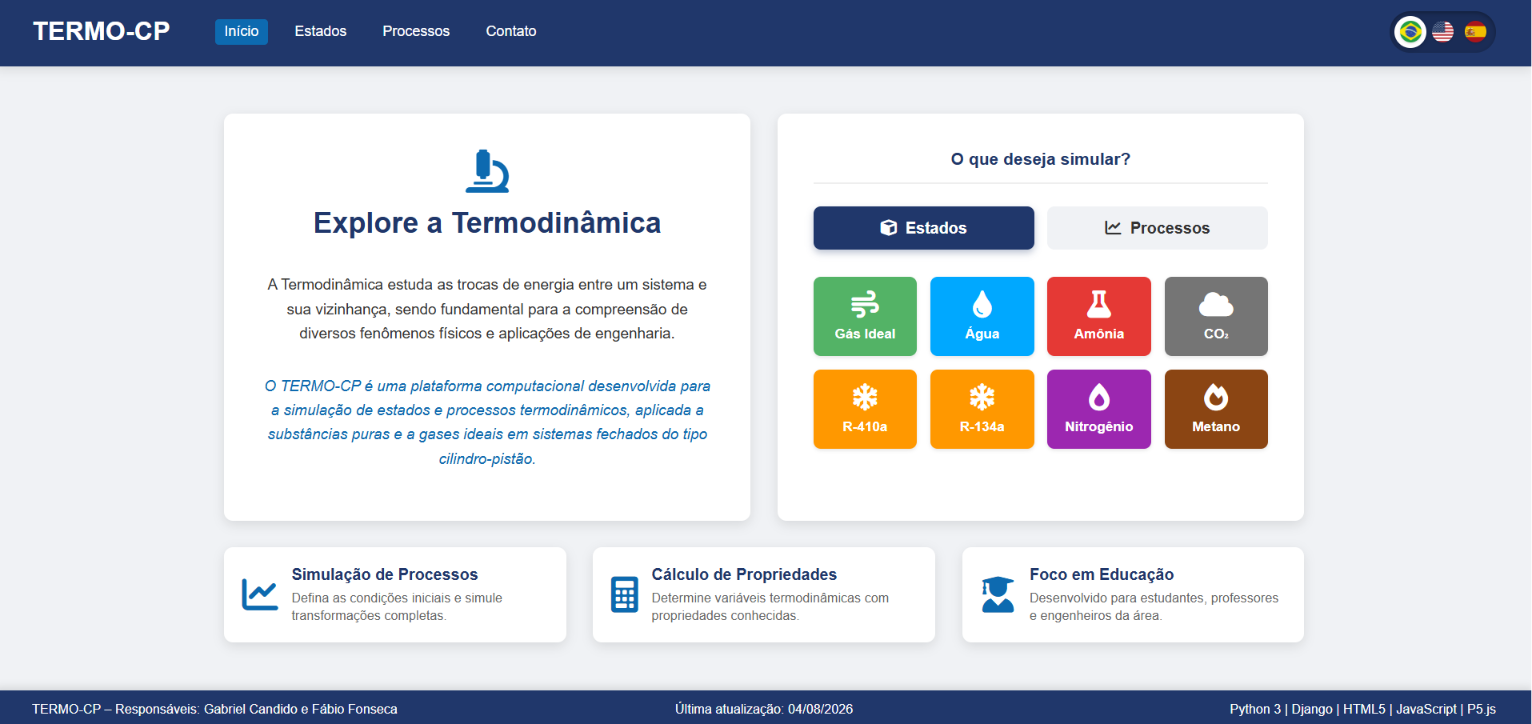
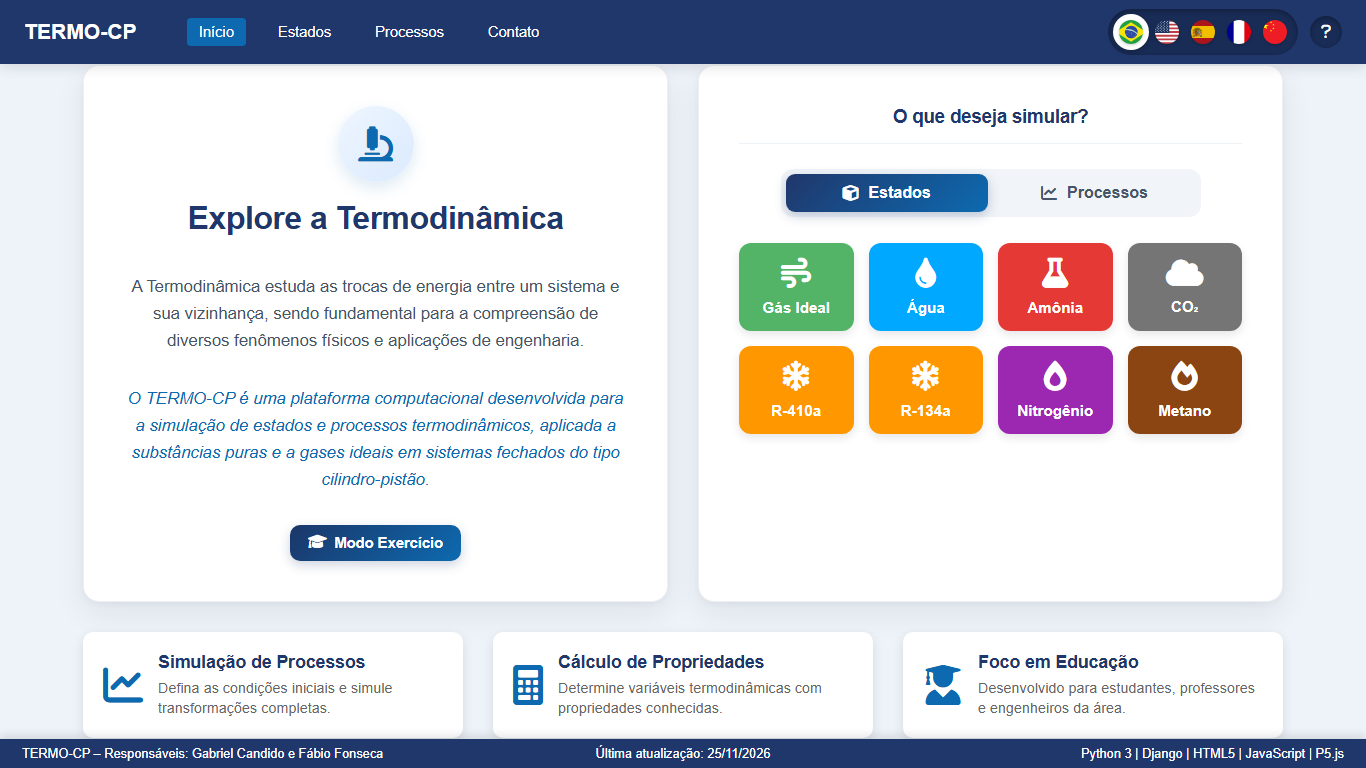
Remover artigo_prints do GitHub e atualizar os 5 READMEs com prints por idioma

diff --git a/myapp/static/myapp/js/base_ui.js b/myapp/static/myapp/js/base_ui.js
@@ -181,6 +181,8 @@ try {
         // Executa assim que o HTML da página (incluindo o que vem do block content) estiver carregado
         document.addEventListener("DOMContentLoaded", function() {
             // Busca se o usuário já escolheu um idioma antes. Se não, o padrão é 'pt-br'
+            const _urlLang = new URLSearchParams(window.location.search).get('lang');
+            if (_urlLang && ['pt-br', 'en', 'es', 'fr', 'zh'].indexOf(_urlLang) !== -1) { localStorage.setItem('preferredLang', _urlLang); }
             let savedLang = localStorage.getItem('preferredLang') || 'pt-br';
 
             // Define o índice da bolinha branca baseado no idioma salvo

diff --git a/README.fr.md b/README.fr.md
@@ -67,17 +67,18 @@ Orienté vers l'enseignement et la recherche, le projet aide les étudiants, ens
 
 - **Calcul complet d'états thermodynamiques** — détermine `P`, `T`, `v`, `u`, `h`, `s`, la phase et le titre `x` (en `%` et en fraction décimale) à partir de paires de propriétés connues, avec masse configurable (`m` en kg).
 - **Simulation de processus et enchaînement de cycles** — calcule des transformations complètes incluant le travail (`W`), la chaleur (`Q`), l'entropie générée (`Sgén`), la vérification de la 2e Loi et le **Bilan Global du Cycle** (`W_net`, `Q_H`, `Q_L`, rendement thermique `η` et `COP`).
-- **Diagrammes thermodynamiques interactifs** — tracés `P-v`, `T-s`, `h-s`, `T-v` et `P-h` avec dôme de saturation et point critique.
-- **Mémoire de calcul didactique** — démonstrations théoriques étape par étape et équations appliquées à chaque processus.
-- **Visualisation 3D interactive** — animation WebGL du cylindre-piston avec P5.js et curseur de volume.
-- **Historique, comparaison et rapports** — comparaison côte à côte des calculs de la session et exportation de rapports en image via `html2canvas`.
-- **Aide contextuelle et Visite Guidée** — centre d'aide complet, conseils par page et visite interactive des boutons et résultats.
+- **Diagrammes interactifs avec Zoom & Pan** — tracés `P-v`, `T-s`, `h-s`, `T-v` et `P-h` (axes linéaires et logarithmiques) avec dôme de saturation, point critique et export PNG/PDF/CSV.
+- **Mémoire didactique en PDF vectoriel** — démonstrations étape par étape, tableau État 1 × État 2, vérification de la 1re Loi, irréversibilité de Gouy-Stodola et export PDF A4.
+- **Mode Exercice et Mini-Examen** — exercices aléatoires par substance et niveau, Mini-Examen de 3 questions, verrou anti-triche, convertisseur rapide, code d'authenticité et justificatif PDF.
+- **Partage de simulations** — lien court (`/s/<code>/`) et QR Code avec aperçu 3D du cylindre (avec échelle) et réouverture directe dans TERMO-CP.
+- **Visualisation 3D interactive** — animation WebGL du cylindre-piston avec P5.js et échelle logarithmique de volume.
+- **Historique, rapports, Visite Guidée et statistiques** — comparaison côte à côte, export PDF/CSV/PNG, visite interactive et statistiques anonymes dans Django Admin.
 
 <br>
 
 <div align="center">
   <a href="https://gcandid0.pythonanywhere.com/">
-    <img src="./assets/screenshot-home.png" alt="Écran d'accueil de TERMO-CP" width="900" style="border-radius: 12px;">
+    <img src="./assets/screenshot-home-fr.png" alt="Écran d'accueil de TERMO-CP" width="900" style="border-radius: 12px;">
   </a>
 </div>
 
@@ -120,9 +121,13 @@ Définissez la masse, l'état initial, le type de processus et la condition fina
 Chaque résultat s'accompagne d'une animation 3D du cylindre-piston sous P5.js (distinguant visuellement liquide, vapeur et mélange diphasique) ainsi que de diagrammes thermodynamiques interactifs avec dôme de saturation et point critique.
 
 ### Mémoire Didactique, Historique et Rapports
-- **Mémoire de Calcul** : détaille étape par étape les démonstrations des 1re et 2e Lois appliquées au processus.
-- **Historique et Comparaison** : enregistre les calculs de la session dans le navigateur pour les comparer côte à côte.
-- **Exportation de Rapports** : génère un rapport consolidé prêt à être exporté en image (`html2canvas`).
+- **Mémoire de Calcul (PDF)** : démonstrations étape par étape des 1re et 2e Lois, vérification numérique (`Q − W = ΔU`), irréversibilité de Gouy-Stodola et export PDF vectoriel A4.
+- **Diagrammes avec Zoom & Pan** : zoom et déplacement natifs Chart.js (axes linéaires et logarithmiques), avec export PNG, PDF et CSV.
+- **Historique et Comparaison** : enregistre les calculs de la session avec filtre de recherche et comparaison côte à côte.
+
+### Mode Exercice et Partage de Simulations
+- **Mode Exercice (`/exercicios/`)** : problèmes aléatoires calibrés par substance (ou Mini-Examen de 3 questions), boutons d'analyse physique, verrou anti-triche, convertisseur rapide, convention de signes, code d'authenticité et justificatif PDF.
+- **Liens Partageables (`/s/<code>/`)** : lien court, QR Code et aperçu 3D avec échelle permettant de rouvrir la simulation prête dans TERMO-CP.
 
 <p align="right"><a href="#haut">↑ retour en haut</a></p>
 
@@ -190,7 +195,7 @@ Aucune installation nécessaire — utilisez directement la version publiée :
 Le dépôt inclut une suite de tests automatisés (Django `TestCase`) ainsi qu'une analyse statique via **Ruff**, exécutées automatiquement sur GitHub Actions :
 
 ```bash
-# Lancer les tests automatisés (28 tests : calculs, vues, formulaires et intégrité UTF-8)
+# Lancer les tests automatisés (33 tests : calculs, vues, formulaires et intégrité UTF-8)
 python manage.py test myapp
 
 # Vérification du projet Django
@@ -227,6 +232,10 @@ ruff check myapp termocp
 - [x] Centre d'Aide, aide contextuelle et Visite Guidée interactive
 - [x] Prise en charge complète de 5 langues (PT / EN / ES / FR / ZH)
 - [x] Suite de tests automatisés et pipeline CI avec GitHub Actions
+- [x] Zoom & Pan sur les diagrammes et export PDF vectoriel du Mémoire Didactique
+- [x] Mode Exercice (libre et Mini-Examen de 3 questions) avec verrou anti-triche et justificatif PDF
+- [x] Liens partageables de simulation (QR Code, aperçu 3D avec échelle et réouverture directe)
+- [x] Statistiques anonymes d'utilisation et suivi des exercices dans Django Admin
 
 <p align="right"><a href="#haut">↑ retour en haut</a></p>
 

diff --git a/README.es.md b/README.es.md
@@ -67,17 +67,18 @@ Con un enfoque educativo, está dirigida a estudiantes, docentes e ingenieros qu
 
 - **Cálculo completo de estados termodinámicos** — determina `P`, `T`, `v`, `u`, `h`, `s`, fase y calidad `x` (en `%` y fracción decimal) a partir de pares de propiedades conocidas, con masa configurable (`m` en kg).
 - **Simulación de procesos y encadenamiento de ciclos** — calcula transformaciones completas con trabajo (`W`), calor (`Q`), generación de entropía (`Sgen`), verificación de la 2ª Ley y **Balance Global del Ciclo** (`W_neto`, `Q_H`, `Q_L`, eficiencia térmica `η` y `COP`).
-- **Diagramas termodinámicos interactivos** — gráficos `P-v`, `T-s`, `h-s`, `T-v` y `P-h` con domo de saturación y punto crítico.
-- **Memoria de cálculo didáctica** — deducciones teóricas paso a paso y ecuaciones aplicadas a cada proceso.
-- **Visualización 3D interactiva** — animación WebGL del cilindro-pistón en P5.js con control deslizable de volumen.
-- **Historial, comparación e informes** — comparación lado a lado de cálculos de la sesión y exportación de informes en imagen con `html2canvas`.
-- **Ayuda contextual y Tour Guiado** — centro de ayuda completo, consejos por página y recorrido guiado de botones y resultados.
+- **Diagramas interactivos con Zoom y Pan** — gráficos `P-v`, `T-s`, `h-s`, `T-v` y `P-h` (ejes lineales y logarítmicos) con domo de saturación, punto crítico y exportación en PNG/PDF/CSV.
+- **Memoria de cálculo didáctica en PDF** — deducciones paso a paso, tabla Estado 1 × Estado 2, verificación de la 1ª Ley, irreversibilidad de Gouy-Stodola y PDF vectorial A4.
+- **Modo Ejercicio y Mini-Examen** — problemas aleatorios por sustancia y nivel, Mini-Examen de 3 preguntas, bloqueo anti-trampa, conversor rápido, código de autenticidad y comprobante PDF.
+- **Simulaciones compartibles** — enlace corto (`/s/<codigo>/`) y código QR con vista previa del cilindro 3D con escala y reapertura directa en TERMO-CP.
+- **Visualización 3D interactiva** — animación WebGL del cilindro-pistón en P5.js con escala logarítmica de volumen.
+- **Historial, informes, Tour Guiado y estadísticas** — comparación lado a lado, exportación PDF/CSV/PNG, recorrido interactivo y estadísticas anónimas en Django Admin.
 
 <br>
 
 <div align="center">
   <a href="https://gcandid0.pythonanywhere.com/">
-    <img src="./assets/screenshot-home.png" alt="Pantalla principal de TERMO-CP" width="900" style="border-radius: 12px;">
+    <img src="./assets/screenshot-home-es.png" alt="Pantalla principal de TERMO-CP" width="900" style="border-radius: 12px;">
   </a>
 </div>
 
@@ -120,9 +121,13 @@ Defina la masa, el estado inicial, el tipo de proceso y la condición final (o e
 Cada resultado incluye una animación 3D del cilindro-pistón en P5.js (distinguiendo visualmente líquido, vapor y mezcla bifásica) junto con diagramas termodinámicos interactivos con domo de saturación y punto crítico.
 
 ### Memoria Didáctica, Historial e Informes
-- **Memoria de Cálculo**: muestra las deducciones teóricas paso a paso de la 1ª y 2ª Leyes aplicadas al proceso.
-- **Historial y Comparación**: guarda los cálculos de la sesión en el navegador para compararlos lado a lado.
-- **Exportación de Informes**: genera un informe consolidado listo para exportar como imagen (`html2canvas`).
+- **Memoria de Cálculo (PDF)**: deducciones paso a paso de la 1ª y 2ª Ley, verificación numérica (`Q − W = ΔU`), irreversibilidad de Gouy-Stodola y exportación vectorial en PDF A4.
+- **Diagramas con Zoom y Pan**: zoom y arrastre nativos en Chart.js (ejes lineales y logarítmicos), con exportación en PNG, PDF y CSV.
+- **Historial y Comparación**: guarda los cálculos de la sesión con filtro de búsqueda y comparación lado a lado.
+
+### Modo Ejercicio y Enlaces Compartibles
+- **Modo Ejercicio (`/exercicios/`)**: problemas aleatorios calibrados por sustancia (o Mini-Examen de 3 preguntas), chips de análisis físico, bloqueo anti-trampa, conversor rápido, guía de signos, código de autenticidad y comprobante/boletín en PDF.
+- **Enlaces Compartibles (`/s/<codigo>/`)**: enlace corto, código QR y vista previa 3D con escala para reabrir la simulación lista en TERMO-CP.
 
 <p align="right"><a href="#inicio">↑ volver arriba</a></p>
 
@@ -190,7 +195,7 @@ No requiere instalación — acceda directamente a la versión publicada:
 El repositorio cuenta con una suite automatizada de pruebas (Django `TestCase`) y análisis estático con **Ruff**, ejecutados automáticamente mediante GitHub Actions:
 
 ```bash
-# Ejecutar pruebas automatizadas (28 pruebas: cálculos, vistas, formularios e integridad UTF-8)
+# Ejecutar pruebas automatizadas (33 pruebas: cálculos, vistas, formularios e integridad UTF-8)
 python manage.py test myapp
 
 # Verificación del proyecto Django
@@ -227,6 +232,10 @@ ruff check myapp termocp
 - [x] Centro de Ayuda, ayuda contextual y Tour Guiado interactivo
 - [x] Soporte completo en 5 idiomas (PT / EN / ES / FR / ZH)
 - [x] Suite de pruebas automatizadas y pipeline CI con GitHub Actions
+- [x] Zoom y Pan en diagramas y exportación vectorial en PDF de la Memoria Didáctica
+- [x] Modo Ejercicio (individual y Mini-Examen de 3 preguntas) con bloqueo anti-trampa y PDF
+- [x] Enlaces compartibles de simulación (código QR, vista previa 3D con escala y reapertura directa)
+- [x] Estadísticas anónimas de uso y registro de ejercicios en Django Admin
 
 <p align="right"><a href="#inicio">↑ volver arriba</a></p>
 

diff --git a/README.md b/README.md
@@ -67,11 +67,12 @@ O projeto tem foco educacional, voltado a estudantes, professores e engenheiros 
 
 - **Cálculo completo de estados termodinâmicos** — determinação de `P`, `T`, `v`, `u`, `h`, `s`, fase e título `x` (em `%` e fração decimal) a partir de pares de propriedades conhecidas, com massa configurável (`m` em kg).
 - **Simulação de processos e encadeamento de ciclos** — cálculo de transformações completas com trabalho (`W`), calor (`Q`), geração de entropia (`Sger`), verificação da 2ª Lei e **Balanço Global do Ciclo** (`W_líq`, `Q_H`, `Q_L`, rendimento térmico `η` e `COP`).
-- **Diagramas termodinâmicos interativos** — visualização em gráficos `P-v`, `T-s`, `h-s`, `T-v` e `P-h` com domo de saturação e ponto crítico.
-- **Memorial de cálculo didático** — deduções teóricas passo a passo e equações aplicadas a cada processo.
-- **Visualização 3D interativa** — animação do conjunto cilindro-pistão em P5.js (WebGL) com controle de volume.
-- **Histórico, comparação e relatórios** — comparação lado a lado de cálculos salvos na sessão e exportação de relatórios como imagem via `html2canvas`.
-- **Ajuda contextual e Tour Guiado** — central de ajuda completa, dicas por página e tour interativo dos botões e resultados.
+- **Diagramas termodinâmicos interativos com Zoom & Pan** — gráficos `P-v`, `T-s`, `h-s`, `T-v` e `P-h` (eixos lineares e logarítmicos) com domo de saturação, ponto crítico e exportação em PNG/PDF/CSV.
+- **Memorial de cálculo didático em PDF** — deduções passo a passo, tabela comparativa Estado 1 × Estado 2, verificação numérica da 1ª Lei, Irreversibilidade de Gouy-Stodola e exportação vetorial em A4.
+- **Modo Exercício e Mini-Prova** — gerador de problemas aleatórios por substância e nível, Mini-Prova de 3 questões, trava anti-burla, conversor rápido, código de autenticidade e comprovante/boletim em PDF.
+- **Compartilhamento de simulações** — geração de link curto (`/s/<codigo>/`) e QR Code com prévia do cilindro 3D e reabertura direta da simulação pronta no TERMO-CP.
+- **Visualização 3D interativa** — animação do conjunto cilindro-pistão em P5.js (WebGL) com régua logarítmica de volume.
+- **Histórico, comparação, relatórios e Ajuda contextual** — comparação lado a lado, exportação em PDF/CSV/PNG, Tour Guiado e estatísticas anônimas no painel administrativo.
 
 <br>
 
@@ -120,9 +121,13 @@ Defina a massa, o estado inicial, o tipo de processo e a condição final (ou ca
 Cada resultado inclui uma animação 3D do cilindro-pistão em P5.js (com distinção visual entre líquido, vapor e mistura bifásica) e diagramas termodinâmicos interativos com domo de saturação e ponto crítico.
 
 ### Memorial Didático, Histórico e Relatórios
-- **Memorial de Cálculo**: exibe as deduções teóricas passo a passo da 1ª e 2ª Leis aplicadas ao processo.
-- **Histórico e Comparação**: guarda os cálculos da sessão no navegador para comparação lado a lado.
-- **Exportação de Relatório**: gera um relatório consolidado pronto para exportação como imagem (`html2canvas`).
+- **Memorial de Cálculo (PDF)**: exibe deduções passo a passo da 1ª e 2ª Leis, verificação numérica (`Q − W = ΔU`), Irreversibilidade de Gouy-Stodola (`I = T_viz · Sger`) e exportação vetorial em PDF A4.
+- **Diagramas com Zoom & Pan**: ampliação e arraste nativos em Chart.js (eixos lineares e logarítmicos), com exportação em PNG, PDF e CSV.
+- **Histórico e Comparação**: guarda os cálculos da sessão com filtro de busca e comparação lado a lado.
+
+### Modo Exercício e Compartilhamento
+- **Modo Exercício (`/exercicios/`)**: problemas aleatórios calibrados para cada substância (ou Mini-Prova de 3 questões), análise física por chips clicáveis, trava anti-burla, conversor de unidades, guia de sinais, código de autenticidade no servidor e comprovante/boletim em PDF.
+- **Links Compartilháveis (`/s/<codigo>/`)**: gera link curto, QR Code e compartilhamento via WhatsApp/e-mail com prévia dos dados + cilindro 3D com escala e botão para abrir a simulação pronta.
 
 <p align="right"><a href="#topo">↑ voltar ao topo</a></p>
 
@@ -190,7 +195,7 @@ Não é necessário instalar nada — acesse diretamente a versão publicada:
 O repositório conta com suíte automatizada de testes (Django `TestCase`) e verificação estática via **Ruff**, executados automaticamente no GitHub Actions:
 
 ```bash
-# Executar os testes automatizados (28 testes: cálculos, views, formulários e integridade UTF-8)
+# Executar os testes automatizados (33 testes: cálculos, views, formulários e integridade UTF-8)
 python manage.py test myapp
 
 # Verificação de integridade do projeto Django
@@ -227,6 +232,10 @@ ruff check myapp termocp
 - [x] Central de Ajuda, ajuda contextual e Tour Guiado interativo
 - [x] Suporte completo a 5 idiomas (PT / EN / ES / FR / ZH)
 - [x] Suíte de testes automatizados e pipeline CI com GitHub Actions
+- [x] Zoom & Pan nos diagramas e exportação vetorial em PDF do Memorial Didático
+- [x] Modo Exercício (avulso e Mini-Prova de 3 questões) com trava anti-burla e comprovante PDF
+- [x] Links compartilháveis de simulação (QR Code, prévia 3D com escala e reabertura direta)
+- [x] Estatísticas anônimas de uso e auditoria de exercícios no Django Admin
 
 <p align="right"><a href="#topo">↑ voltar ao topo</a></p>
 

diff --git a/README.en.md b/README.en.md
@@ -67,17 +67,18 @@ Designed with an educational focus, it helps students, professors, and engineers
 
 - **Complete thermodynamic state calculation** — determines `P`, `T`, `v`, `u`, `h`, `s`, phase, and quality `x` (both `%` and decimal fraction) from any valid pair of known properties, with configurable system mass (`m` in kg).
 - **Process simulation & cycle chaining** — computes full transformations including work (`W`), heat (`Q`), entropy generation (`Sgen`), 2nd Law feasibility check, and **Global Cycle Balance** (`W_net`, `Q_H`, `Q_L`, thermal efficiency `η`, and `COP`).
-- **Interactive thermodynamic diagrams** — `P-v`, `T-s`, `h-s`, `T-v`, and `P-h` plots with saturation dome and critical point.
-- **Didactic calculation memorial** — step-by-step theoretical derivations and equations for every process.
-- **Interactive 3D visualization** — WebGL piston-cylinder animation in P5.js with volume control slider.
-- **History, comparison & reports** — side-by-side comparison of session calculations and report image export via `html2canvas`.
-- **Contextual help & Guided Tour** — complete Help Center, per-page tips, and interactive guided tour of buttons and results.
+- **Interactive diagrams with Zoom & Pan** — `P-v`, `T-s`, `h-s`, `T-v`, and `P-h` plots (linear and logarithmic axes) with saturation dome, critical point, and PNG/PDF/CSV export.
+- **Didactic calculation memorial (vector PDF)** — step-by-step derivations, State 1 × State 2 table, 1st Law check, Gouy-Stodola irreversibility, and A4 PDF export.
+- **Exercise Mode & Mini-Exam** — randomized problems by substance and level, 3-question Mini-Exam, anti-cheating lock, quick unit converter, authenticity code, and PDF receipt.
+- **Shareable simulations** — short link (`/s/<code>/`) and QR Code with 3D cylinder preview (including volume scale) and one-click live reopening in TERMO-CP.
+- **Interactive 3D visualization** — WebGL piston-cylinder animation in P5.js with logarithmic volume scale.
+- **History, reports, Guided Tour & Admin analytics** — side-by-side comparison, PDF/CSV/PNG exports, interactive tour, and anonymous usage statistics.
 
 <br>
 
 <div align="center">
   <a href="https://gcandid0.pythonanywhere.com/">
-    <img src="./assets/screenshot-home.png" alt="TERMO-CP Home Screen" width="900" style="border-radius: 12px;">
+    <img src="./assets/screenshot-home-en.png" alt="TERMO-CP Home Screen" width="900" style="border-radius: 12px;">
   </a>
 </div>
 
@@ -120,9 +121,13 @@ Define the mass, initial state, process type, and final condition (or heat trans
 Every result includes a 3D P5.js piston-cylinder animation (visually distinguishing liquid, vapor, and two-phase mixtures) alongside interactive thermodynamic diagrams featuring the saturation dome and critical point.
 
 ### Didactic Memorial, History & Reports
-- **Calculation Memorial**: presents step-by-step theoretical derivations of the 1st and 2nd Laws applied to each process.
-- **History & Comparison**: stores session calculations in the browser for side-by-side comparison.
-- **Report Export**: generates a consolidated report ready to export as an image (`html2canvas`).
+- **Calculation Memorial (PDF)**: step-by-step 1st & 2nd Law derivations, numerical check (`Q − W = ΔU`), Gouy-Stodola irreversibility (`I = T_surr · Sgen`), and vector A4 PDF export.
+- **Zoom & Pan Diagrams**: native Chart.js zoom and drag on both linear and logarithmic axes, with PNG, PDF, and CSV export.
+- **History & Comparison**: stores session calculations with search filter and side-by-side comparison.
+
+### Exercise Mode & Shareable Simulations
+- **Exercise Mode (`/exercicios/`)**: randomized problems calibrated per substance (or 3-question Mini-Exam), clickable physical prediction chips, anti-cheating lock, unit converter, sign convention guide, server authenticity code, and PDF receipt.
+- **Shareable Links (`/s/<code>/`)**: short link, QR Code, and WhatsApp/email sharing with 3D cylinder preview (with scale) and one-click live simulation restore.
 
 <p align="right"><a href="#top">↑ back to top</a></p>
 
@@ -190,7 +195,7 @@ No installation required — use the live deployment directly:
 This repository includes an automated test suite (Django `TestCase`) and static analysis with **Ruff**, running automatically via GitHub Actions:
 
 ```bash
-# Run automated tests (28 tests: thermodynamics, views, forms, and UTF-8 integrity)
+# Run automated tests (33 tests: thermodynamics, views, forms, and UTF-8 integrity)
 python manage.py test myapp
 
 # Run Django system checks
@@ -227,6 +232,10 @@ ruff check myapp termocp
 - [x] Help Center, contextual page help, and interactive Guided Tour
 - [x] Full 5-language support (PT / EN / ES / FR / ZH)
 - [x] Automated test suite and GitHub Actions CI pipeline
+- [x] Diagram Zoom & Pan and vector PDF export for the Didactic Calculation Memorial
+- [x] Exercise Mode (single & 3-question Mini-Exam) with anti-cheating lock and PDF receipt
+- [x] Shareable simulation links (QR Code, scaled 3D preview, and live session restore)
+- [x] Anonymous usage analytics and exercise audit logs in Django Admin
 
 <p align="right"><a href="#top">↑ back to top</a></p>
 

diff --git a/README.zh.md b/README.zh.md
@@ -67,17 +67,18 @@
 
 - **完整的热力学状态计算** — 根据任意两个有效已知属性，自动求解 `P`、`T`、`v`、`u`、`h`、`s`、相态及干度 `x`（同时以百分比 `%` 和小数形式展示），支持自定义系统质量（`m`，单位 kg）。
 - **过程模拟与循环串联** — 计算完整热力学变化，输出功（`W`）、热量（`Q`）、熵产（`Sger`）、热力学第二定律可行性判定，以及**循环全局平衡**（净功 `W_net`、吸热量 `Q_H`、放热量 `Q_L`、热效率 `η` 与制冷系数 `COP`）。
-- **交互式热力学图表** — 支持 `P-v`、`T-s`、`h-s`、`T-v`、`P-h` 图表，并绘制饱和穹顶与临界点。
-- **教学推导计算书** — 针对每个过程展示热力学第一、第二定律的分步理论推导与公式。
-- **3D 交互式动画** — 基于 P5.js (WebGL) 的活塞-气缸 3D 动态演示，配备体积滑块实时观察变化。
-- **历史对比与报告导出** — 保存会话计算记录以便并排对比，并支持使用 `html2canvas` 一键导出报告图片。
-- **上下文帮助与交互引导** — 内置完整帮助中心、逐页提示以及按钮与结果的交互式引导游览。
+- **支持缩放与平移的交互式图表** — `P-v`、`T-s`、`h-s`、`T-v`、`P-h` 图表（线性与对数坐标轴），含饱和穹顶、临界点及 PNG/PDF/CSV 导出。
+- **教学推导计算书（矢量 PDF）** — 分步公式推导、状态 1 × 状态 2 对比表、第一定律数值校验、Gouy-Stodola 不可逆性及 A4 PDF 导出。
+- **练习模式与 3 题小测验** — 按工质与难度随机出题、3 题小测验、防作弊锁、快捷单位换算器、服务器防伪验证码及 PDF 成绩单。
+- **模拟结果分享链接** — 生成短链接（`/s/<代码>/`）与二维码，附带含体积刻度的 3D 气缸预览，并支持一键在 TERMO-CP 中直接打开完整模拟。
+- **3D 交互式动画** — 基于 P5.js (WebGL) 的活塞-气缸 3D 动态演示与对数体积刻度尺。
+- **历史对比、报告、导览与后台统计** — 并排对比、PDF/CSV/PNG 导出、交互式导览以及 Django Admin 匿名使用统计。
 
 <br>
 
 <div align="center">
   <a href="https://gcandid0.pythonanywhere.com/">
-    <img src="./assets/screenshot-home.png" alt="TERMO-CP 首页界面" width="900" style="border-radius: 12px;">
+    <img src="./assets/screenshot-home-zh.png" alt="TERMO-CP 首页界面" width="900" style="border-radius: 12px;">
   </a>
 </div>
 
@@ -120,9 +121,13 @@
 每个计算结果均配有 P5.js 3D 活塞-气缸动画（清晰区分液相、气相和气液两相混合物），并提供带饱和穹顶与临界点的交互式热力学图表。
 
 ### 教学计算书、历史记录与报告
-- **教学计算书**：分步展示适用于当前过程的热力学第一、第二定律理论推导过程。
-- **历史与对比**：在浏览器中自动保存当前会话的计算记录，支持多组结果并排对比。
-- **报告导出**：生成汇总报告，并通过 `html2canvas` 导出为图片，便于附入实验报告与学术作业。
+- **教学计算书（PDF）**：分步展示热力学第一、第二定律推导、数值校验（`Q − W = ΔU`）、Gouy-Stodola 不可逆性及 A4 矢量 PDF 导出。
+- **可缩放图表**：基于 Chart.js 的原生缩放与拖拽（支持线性与对数坐标），并支持 PNG、PDF 与 CSV 导出。
+- **历史与对比**：在浏览器中保存会话计算记录，支持搜索筛选与并排对比。
+
+### 练习模式与分享链接
+- **练习模式（`/exercicios/`）**：按工质校准的随机题目（或 3 题小测验）、可点击物理分析标签、防作弊锁、单位换算器、符号约定指南、服务器防伪验证码与 PDF 成绩单。
+- **分享链接（`/s/<代码>/`）**：短链接、二维码与带体积刻度的 3D 预览，支持一键恢复完整模拟。
 
 <p align="right"><a href="#top">↑ 返回顶部</a></p>
 
@@ -190,7 +195,7 @@ python manage.py runserver
 本仓库包含自动化测试套件（Django `TestCase`）以及 **Ruff** 静态代码检查，并通过 GitHub Actions 自动运行：
 
 ```bash
-# 运行自动化测试（共 28 项测试：热力学计算、视图、表单与 UTF-8 编码完整性）
+# 运行自动化测试（共 33 项测试：热力学计算、视图、表单与 UTF-8 编码完整性）
 python manage.py test myapp
 
 # 运行 Django 系统检查
@@ -227,6 +232,10 @@ ruff check myapp termocp
 - [x] 帮助中心、上下文页面帮助与交互式引导游览
 - [x] 完整支持 5 种语言（PT / EN / ES / FR / ZH）
 - [x] 自动化测试套件与 GitHub Actions CI 流水线
+- [x] 图表缩放/平移与教学计算书矢量 PDF 导出
+- [x] 练习模式（单题与 3 题小测验）、防作弊锁及 PDF 成绩单
+- [x] 可分享模拟链接（二维码、带刻度 3D 预览与一键恢复模拟）
+- [x] Django Admin 匿名使用统计与练习记录审计
 
 <p align="right"><a href="#top">↑ 返回顶部</a></p>
 
